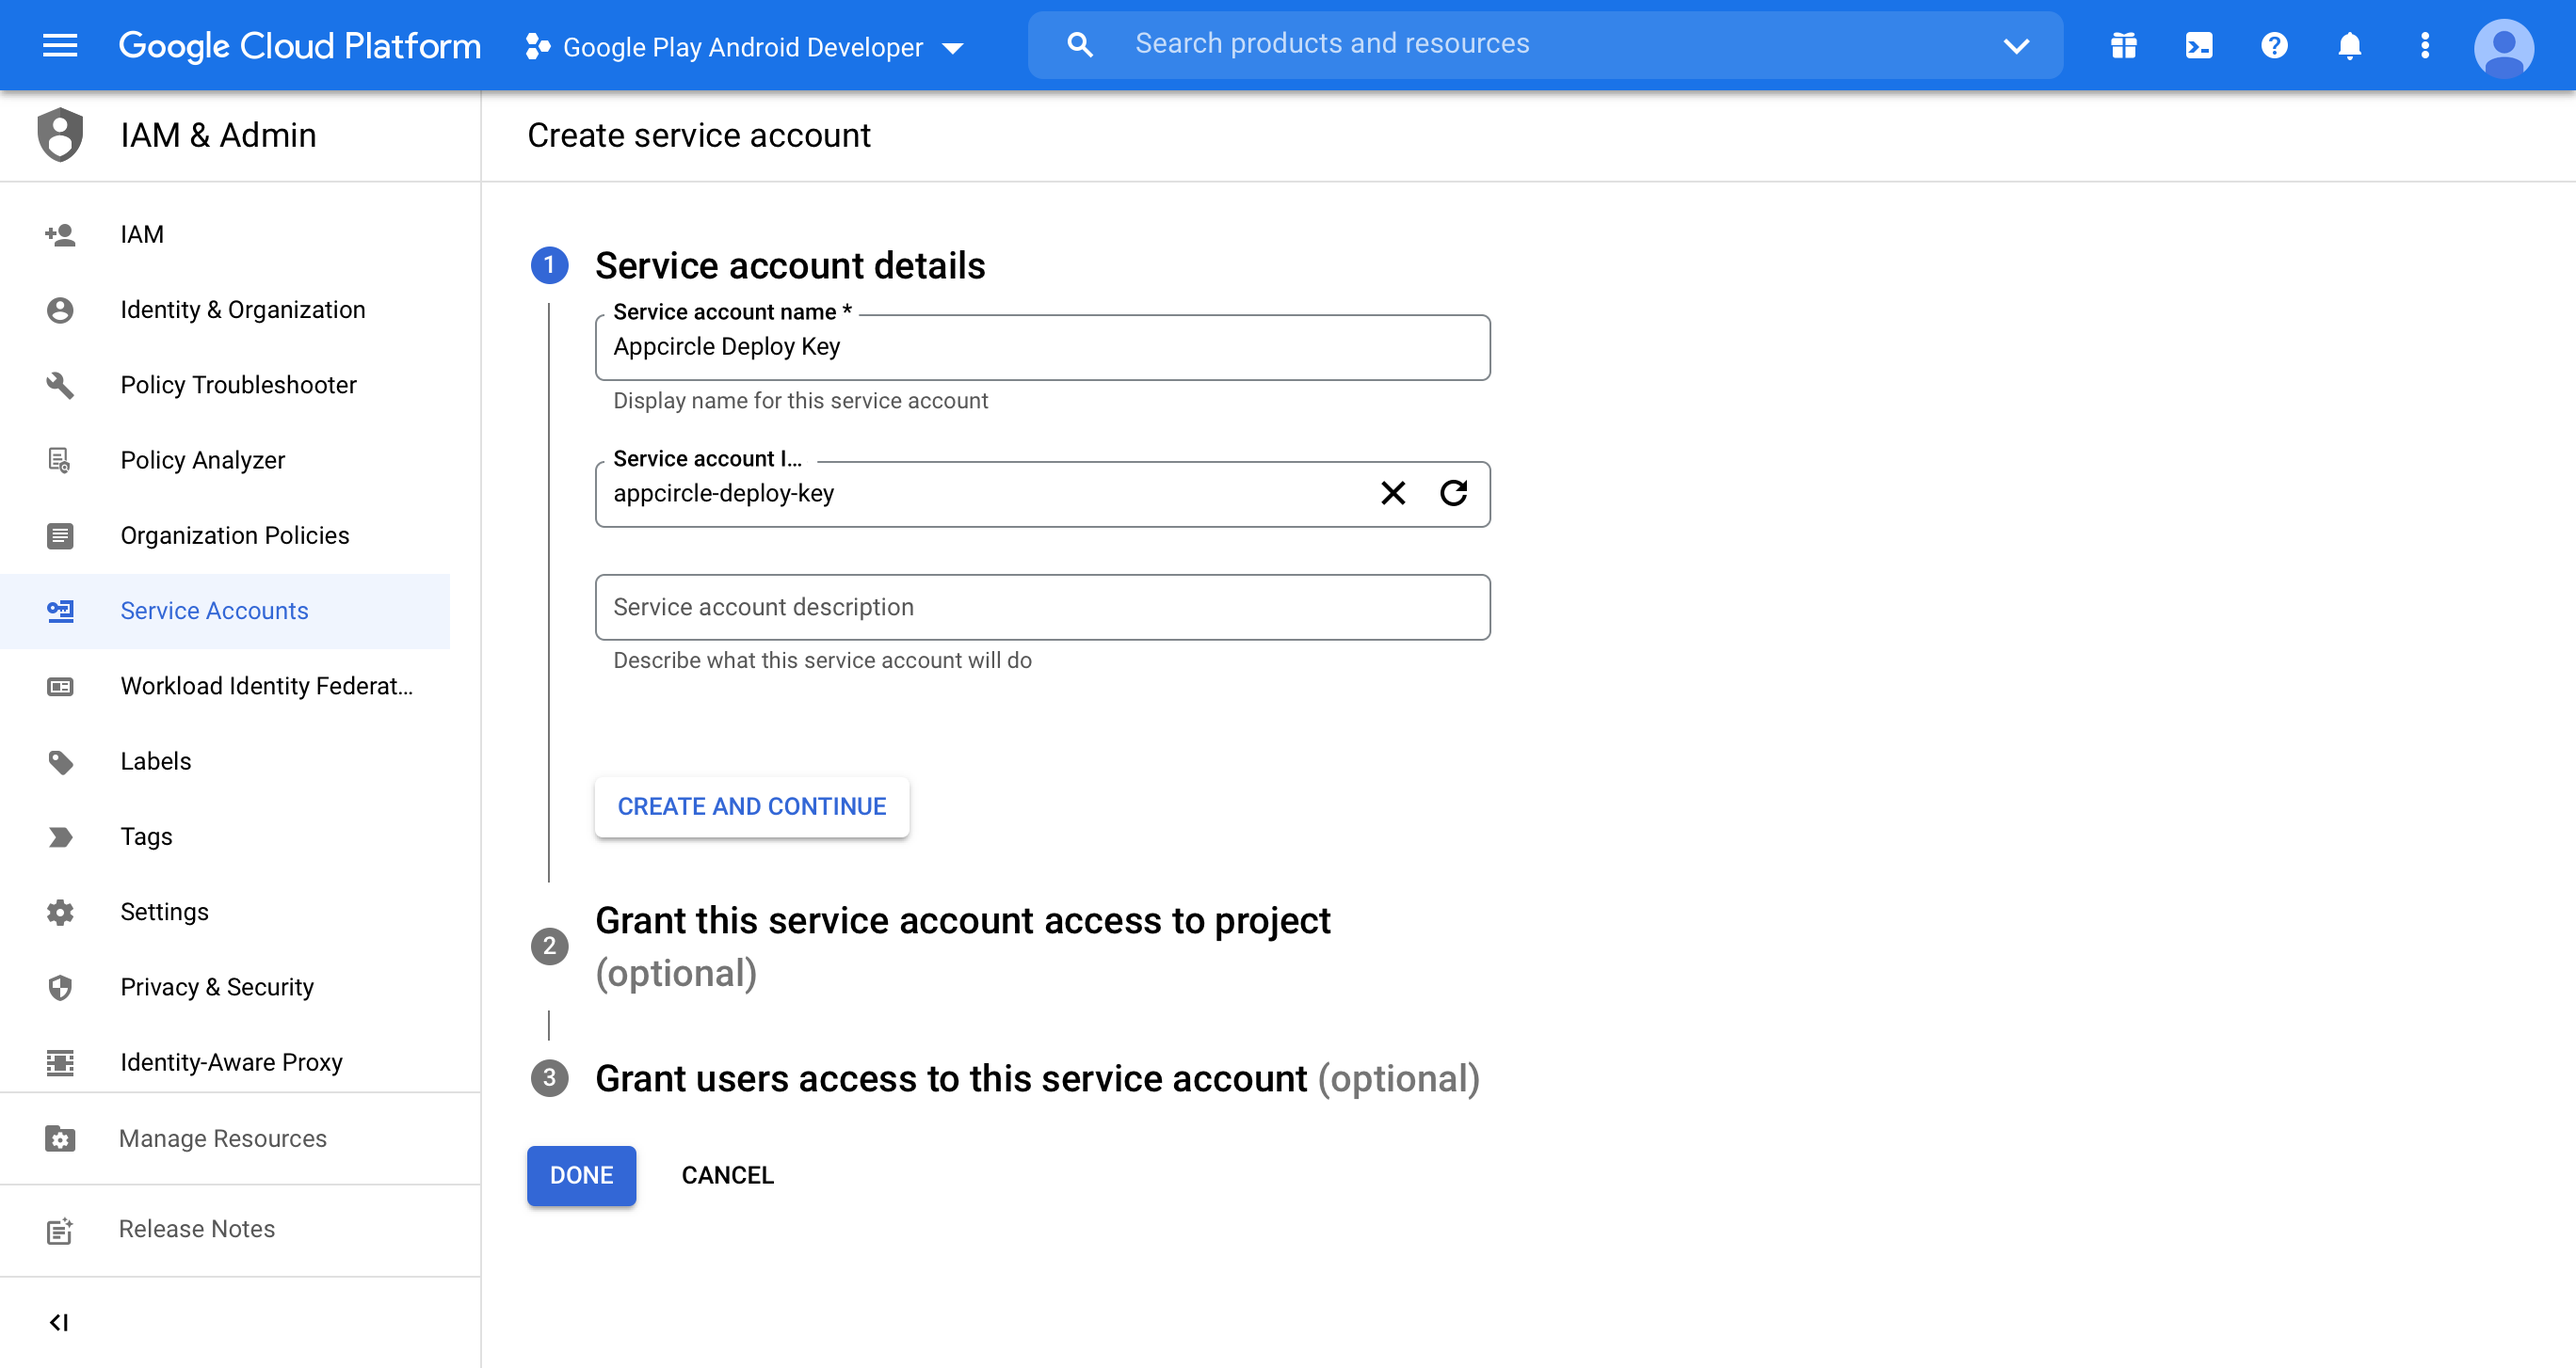
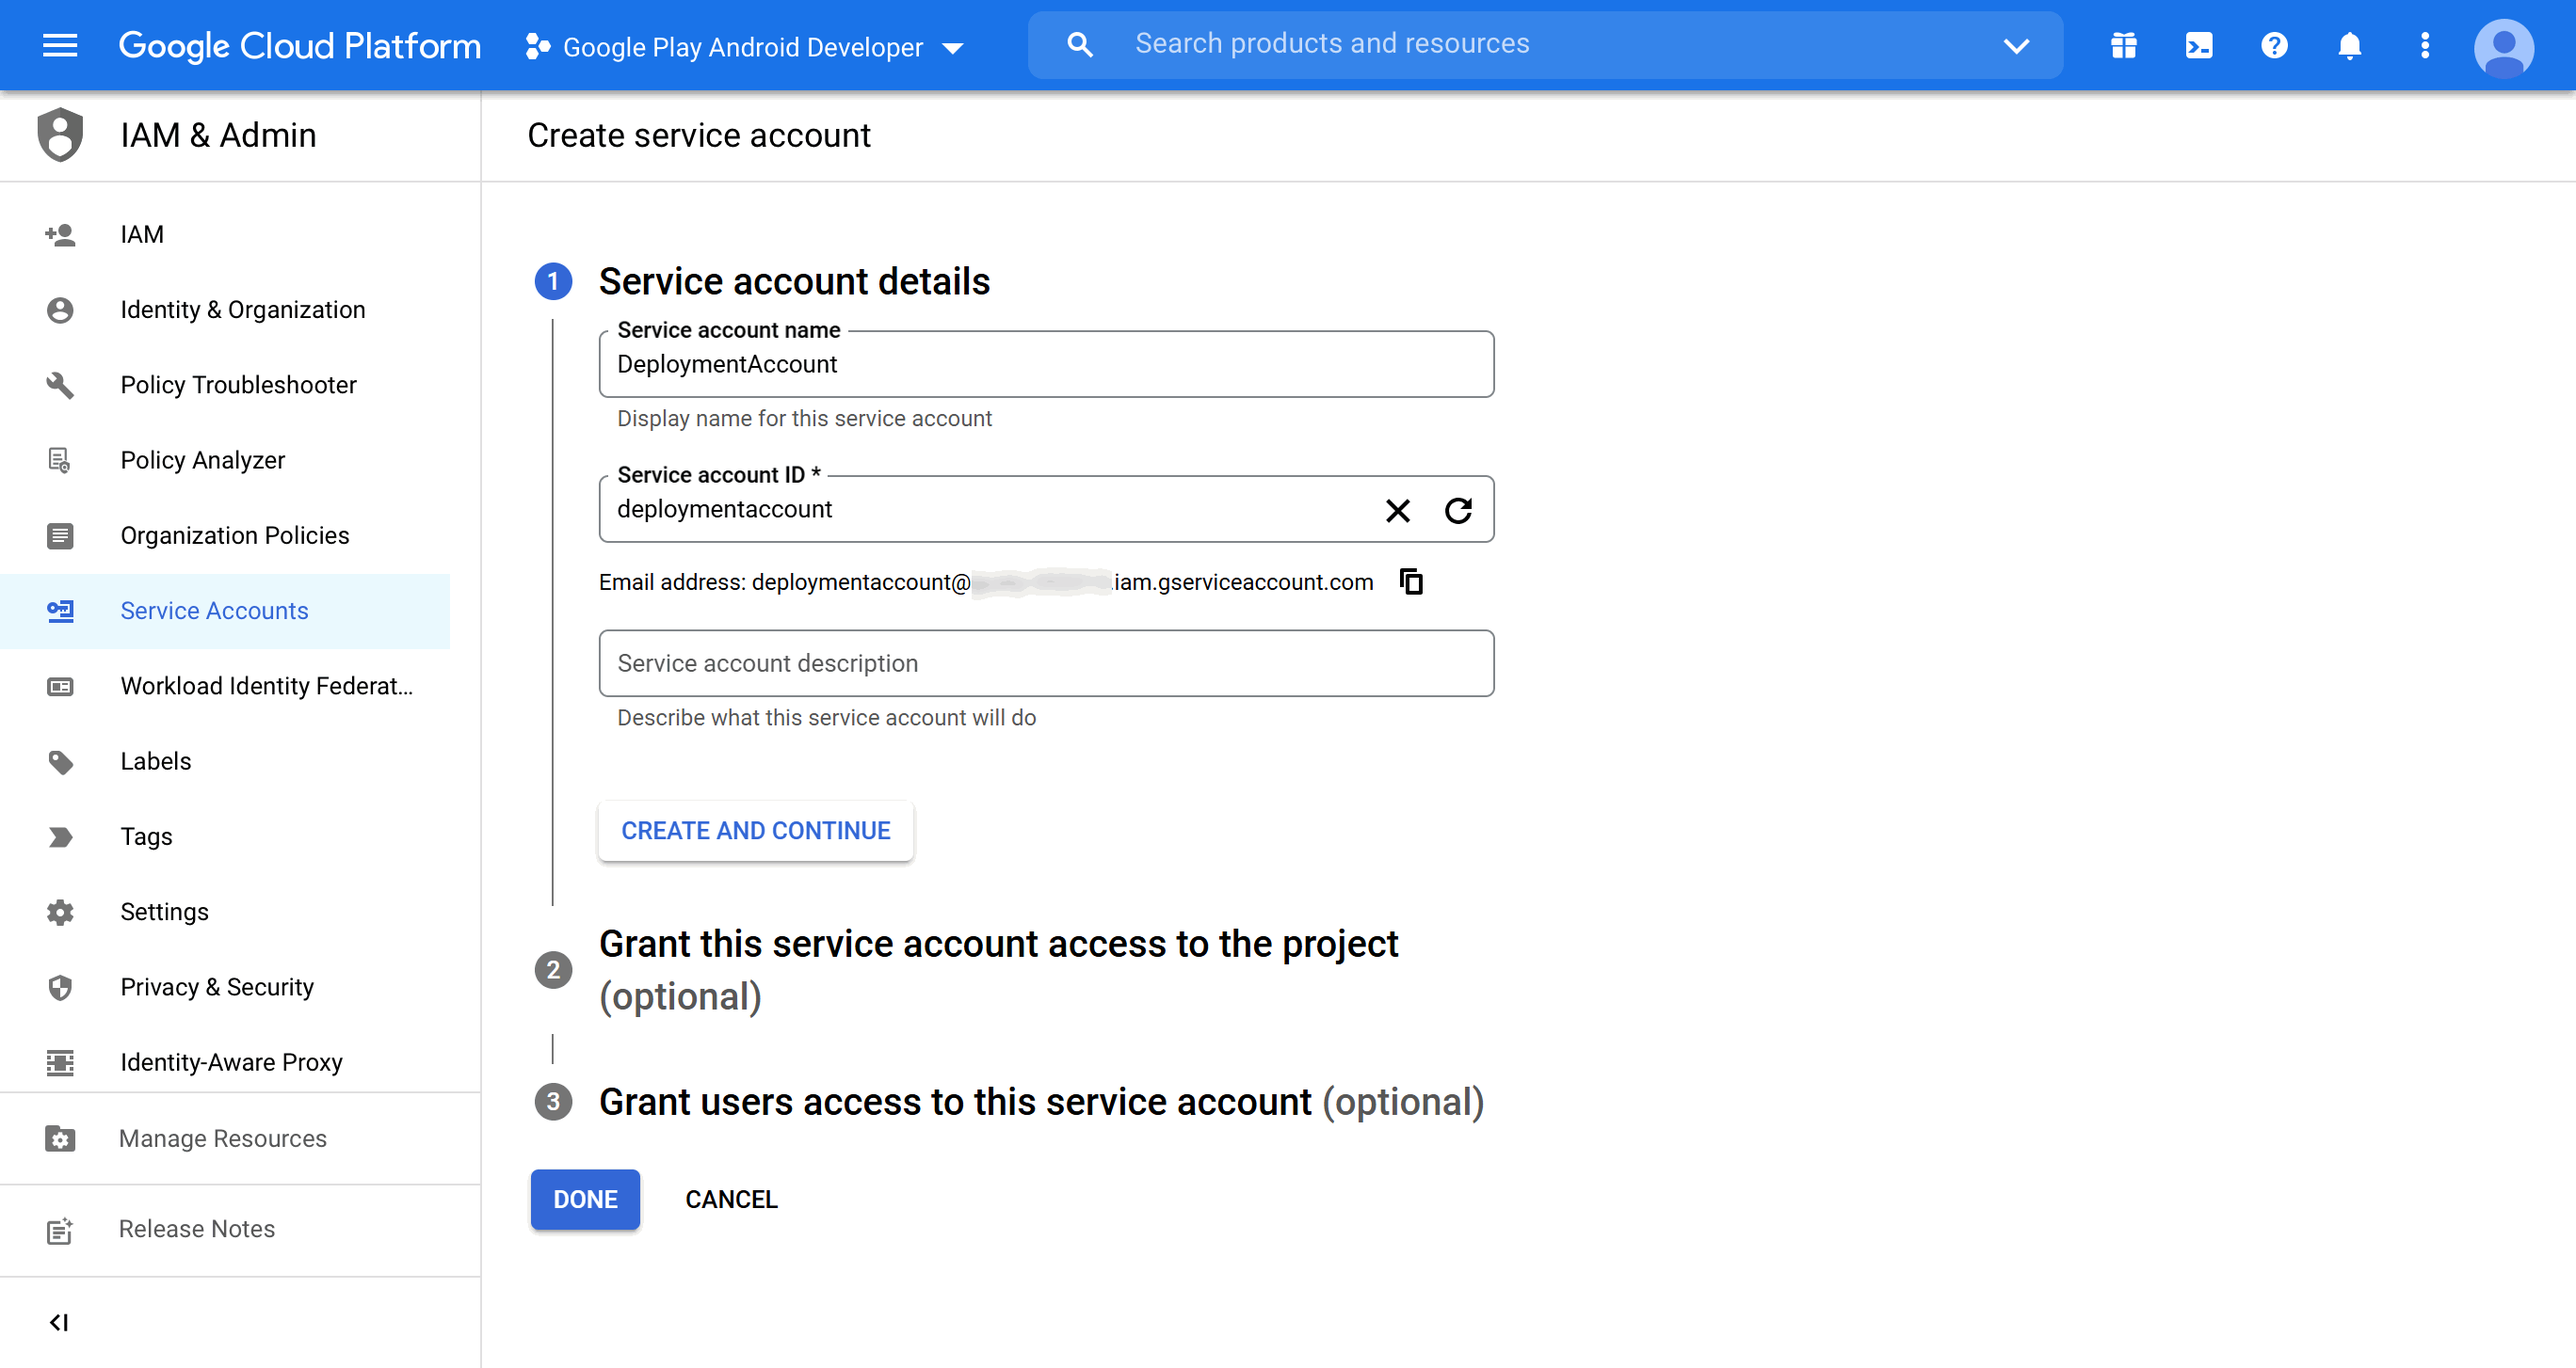
Added ios documentation

Changed region(s): [[0.1864, 0.1857, 0.5903, 0.5261], [0.1864, 0.7737, 0.5903, 0.9285], [0.1864, 0.588, 0.5592, 0.7428]]

diff --git a/android.md b/android.md
@@ -9,39 +9,51 @@ A Google Service Account is required to upload your binary to Google Play Store.
 <li><b>Enable</b> the <code>Google Play Android Developer API</code> for your Google Cloud Project.</li>
 
 <img src="https://raw.githubusercontent.com/andrewpmoore/simple_deploy/main/images/google-service00.01.png" width="100%"/>
+
 <img src="https://raw.githubusercontent.com/andrewpmoore/simple_deploy/main/images/google-service00.02.png" width="100%"/>
 
 <li>Login with your account, then go to <b>Credentials</b> -> <b>Create Credentials</b>, and click <b>Service account</b>.</li>
+
 <img src="https://raw.githubusercontent.com/andrewpmoore/simple_deploy/main/images/google-service01.png" width="100%"/>
 
-<li>This screen will forward you to the <b>Create service account</b> page. Fill in the details of your service account. Based on the service name, an automatic <b>Service account ID</b> will be created.</li>
+<li>This screen will forward you to the <b>Create service account</b> page. Fill in the details of your service account. Based on the service name, an automatic <b>Service account ID</b> will be created. <b>Make a note of the email address created here as it will be required later on in the process.</b></b></li>
+
 <img src="https://raw.githubusercontent.com/andrewpmoore/simple_deploy/main/images/google-service03.png" width="100%"/>
 
 <li>Select <code>Editor</code> in the Role dropdown</li>
+
 <img src="https://raw.githubusercontent.com/andrewpmoore/simple_deploy/main/images/google-service04.png" width="100%"/>
 
 <li>Click <b>Done</b> to save this account.</li>
+
 <img src="https://raw.githubusercontent.com/andrewpmoore/simple_deploy/main/images/google-service05.png" width="100%"/>
 
 <li>Click <b>Manage service accounts</b> to open the management page.</li>
+
 <img src="https://raw.githubusercontent.com/andrewpmoore/simple_deploy/main/images/google-service05-1.png" width="100%"/>
 
 <li>Find the account you just created. Click the three dots in the Actions column, then click <b>Manage keys</b>.</li>
+
 <img src="https://raw.githubusercontent.com/andrewpmoore/simple_deploy/main/images/google-service06.png" width="100%"/>
 
 <li>Click <b>ADD KEY</b> and then click <b>Create new key</b>.</li>
+
 <img src="https://raw.githubusercontent.com/andrewpmoore/simple_deploy/main/images/google-service07.png" width="100%"/>
 
 <li>Download your key as JSON and save it.</li>
+
 <img src="https://raw.githubusercontent.com/andrewpmoore/simple_deploy/main/images/google-service08.png" width="100%"/>
 
 <li>Go to <a href="https://play.google.com/console/developers">Google Play Console</a> and login with your account. Go to <b>User and permissions</b> and click <b>Invite new users</b>.</li>
+
 <img src="https://raw.githubusercontent.com/andrewpmoore/simple_deploy/main/images/google-service09-2.png" width="100%"/>
 
-<li>Add the email generated in step 6 in the <b>Email address</b> field.</li>
+<li>Add the email generated in step 7 in the <b>Email address</b> field.</li>
+
 <img src="https://raw.githubusercontent.com/andrewpmoore/simple_deploy/main/images/google-service12.png" width="100%"/>
 
 <li>Check your user's permissions.
+
 <img src="https://raw.githubusercontent.com/andrewpmoore/simple_deploy/main/images/google-service11-1.png" width="100%"/>
 
 Make sure this account has access to <b>Releases</b>, <b>Store presence</b>, and <b>App access</b>.

diff --git a/ios.md b/ios.md
@@ -1,1 +1,40 @@
 ## Steps for configuring iOS deployment
+
+To deploy to Test Flight, follow the steps below.
+
+<ol>
+<li>Please go to <a href="https://appstoreconnect.apple.com/">App Store connect</a> and log in.</li>
+<li>At the top right hand corner, click on your name and then <code>Edit profile</code>
+
+<img src="https://raw.githubusercontent.com/andrewpmoore/simple_deploy/main/images/apple0001.png" width="100%"/>
+
+<li>Find the <b>Developer ID</b> and make a note of it, this needs to be set in the <code>deploy.yaml</code> as the <code>developerId</code> property</li>
+
+<img src="https://raw.githubusercontent.com/andrewpmoore/simple_deploy/main/images/apple0002.png" width="100%"/>
+
+<li>Go to <b>Users and access</b>, <b>Integrations</b>, <b>Team Keys</b> then click on the <b>+</b> to add a key.</li>
+
+<img src="https://raw.githubusercontent.com/andrewpmoore/simple_deploy/main/images/apple0003.png" width="100%"/>
+
+<li>Give the Key a <code>name</code> and set the access to <code>App Manager</code> and press <b>Generate</b>.</li>
+
+<img src="https://raw.githubusercontent.com/andrewpmoore/simple_deploy/main/images/apple0004.png" width="100%"/>
+
+<li>Copy the <b>Key ID</b> and place it into the <code>teamKeyId</code> in the <code>pubspec.yaml</code> and press <b>Download</b> to download the private key</li>
+
+<img src="https://raw.githubusercontent.com/andrewpmoore/simple_deploy/main/images/apple0005.png" width="100%"/>
+
+</ol>
+
+Place the downloaded file onto your build machine in one of the following directories
+
+```agsl
+./private_keys
+~/private_keys
+~/.private_keys
+~/.appstoreconnect/private_keys
+```
+
+<b>If you are having problems</b>  
+Ensure that `flutter build ios` is working correctly as a command at the root of your project and resolve any errors associated with that.
+
